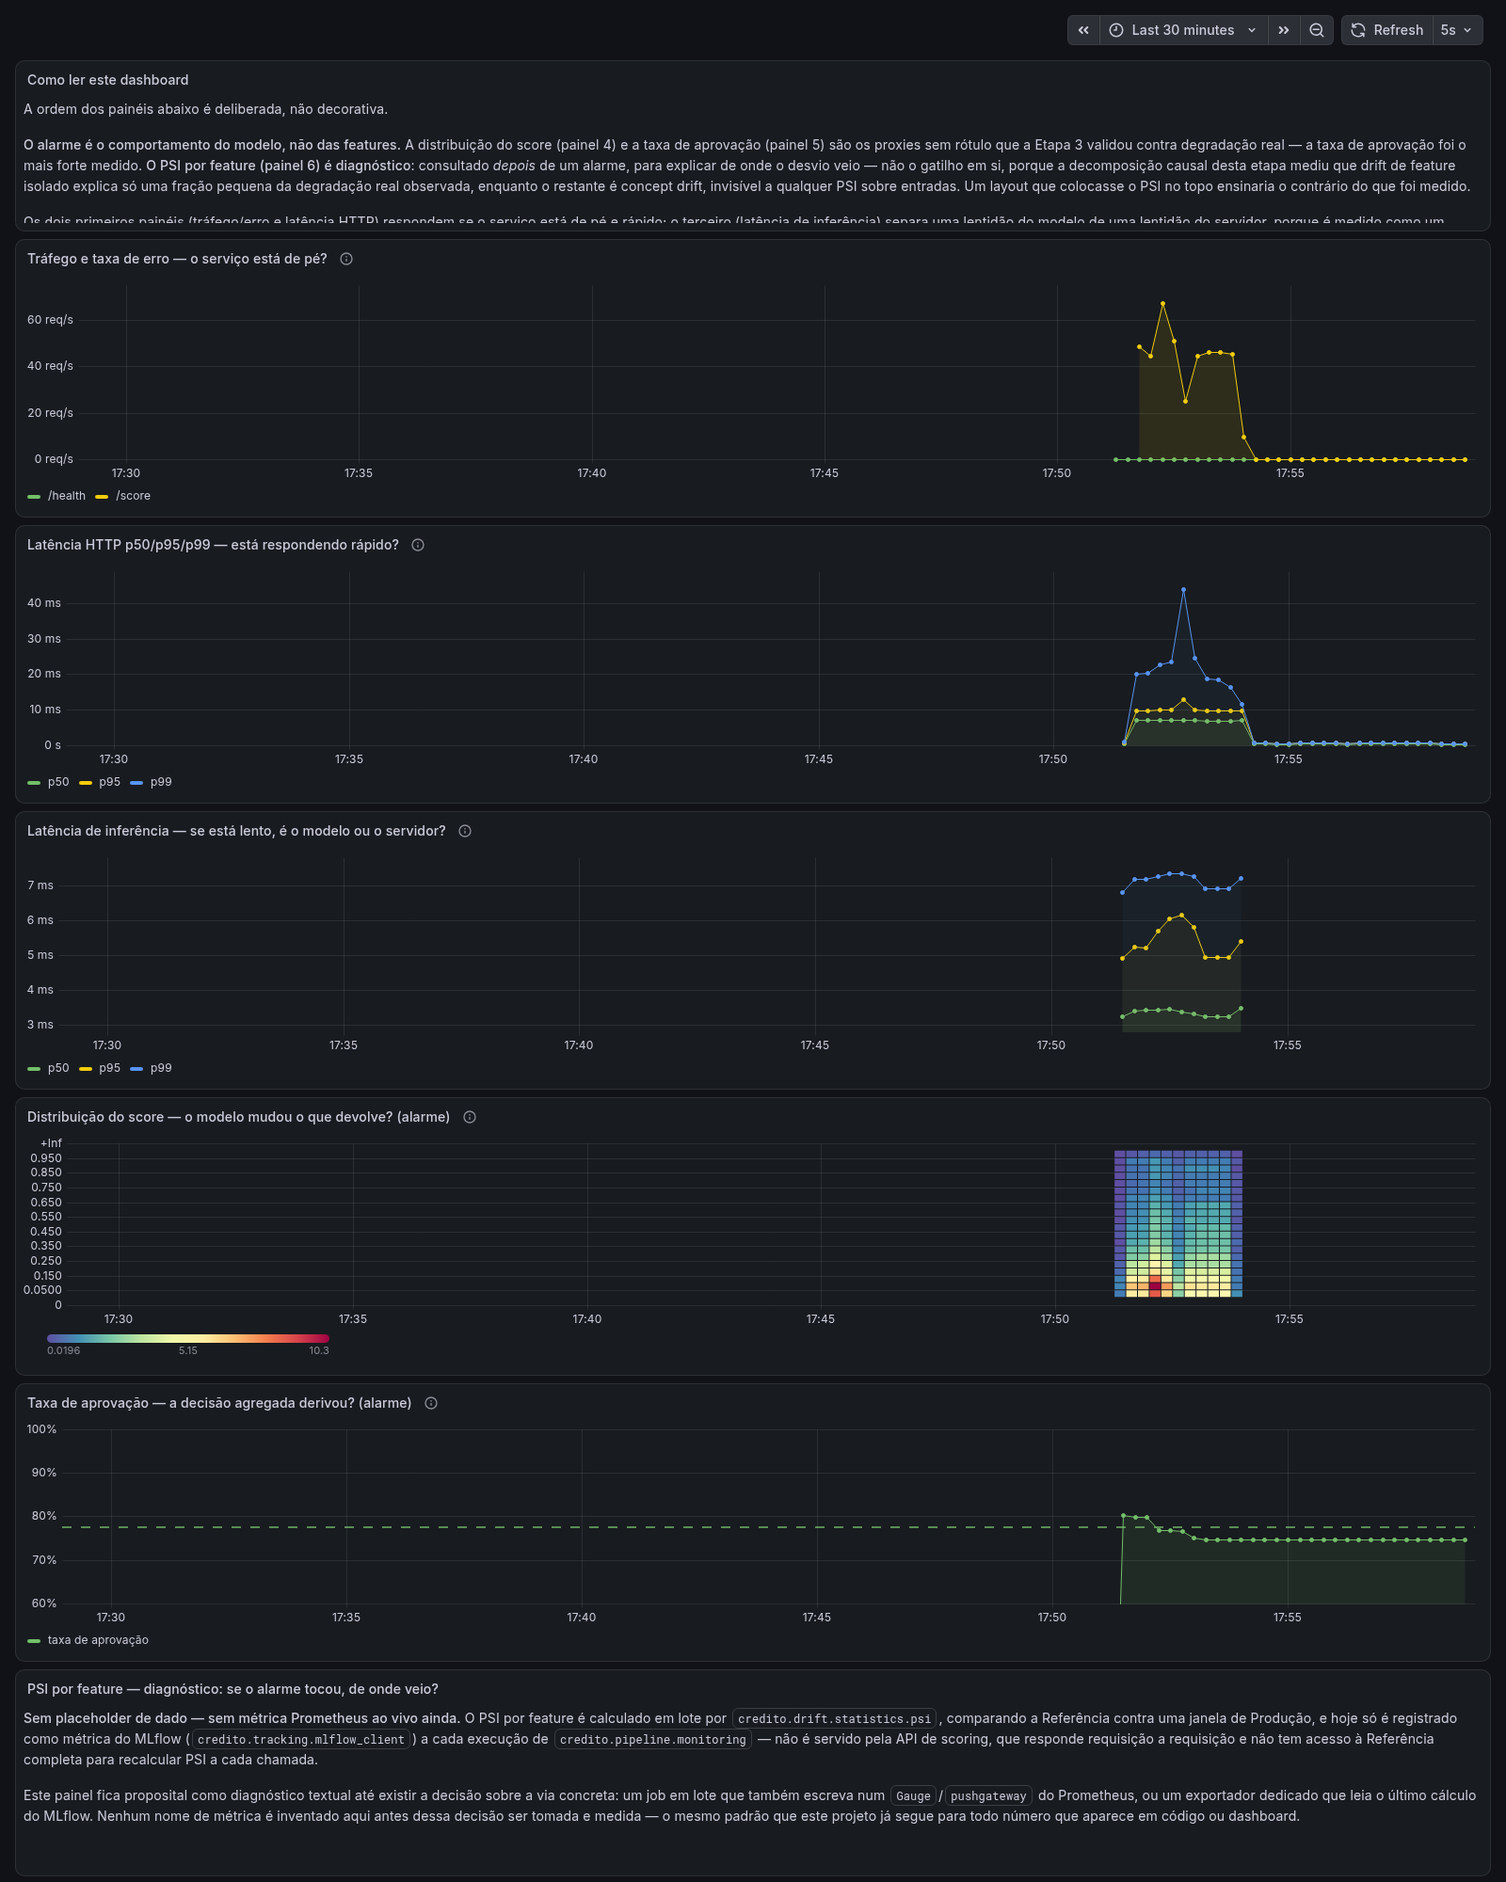
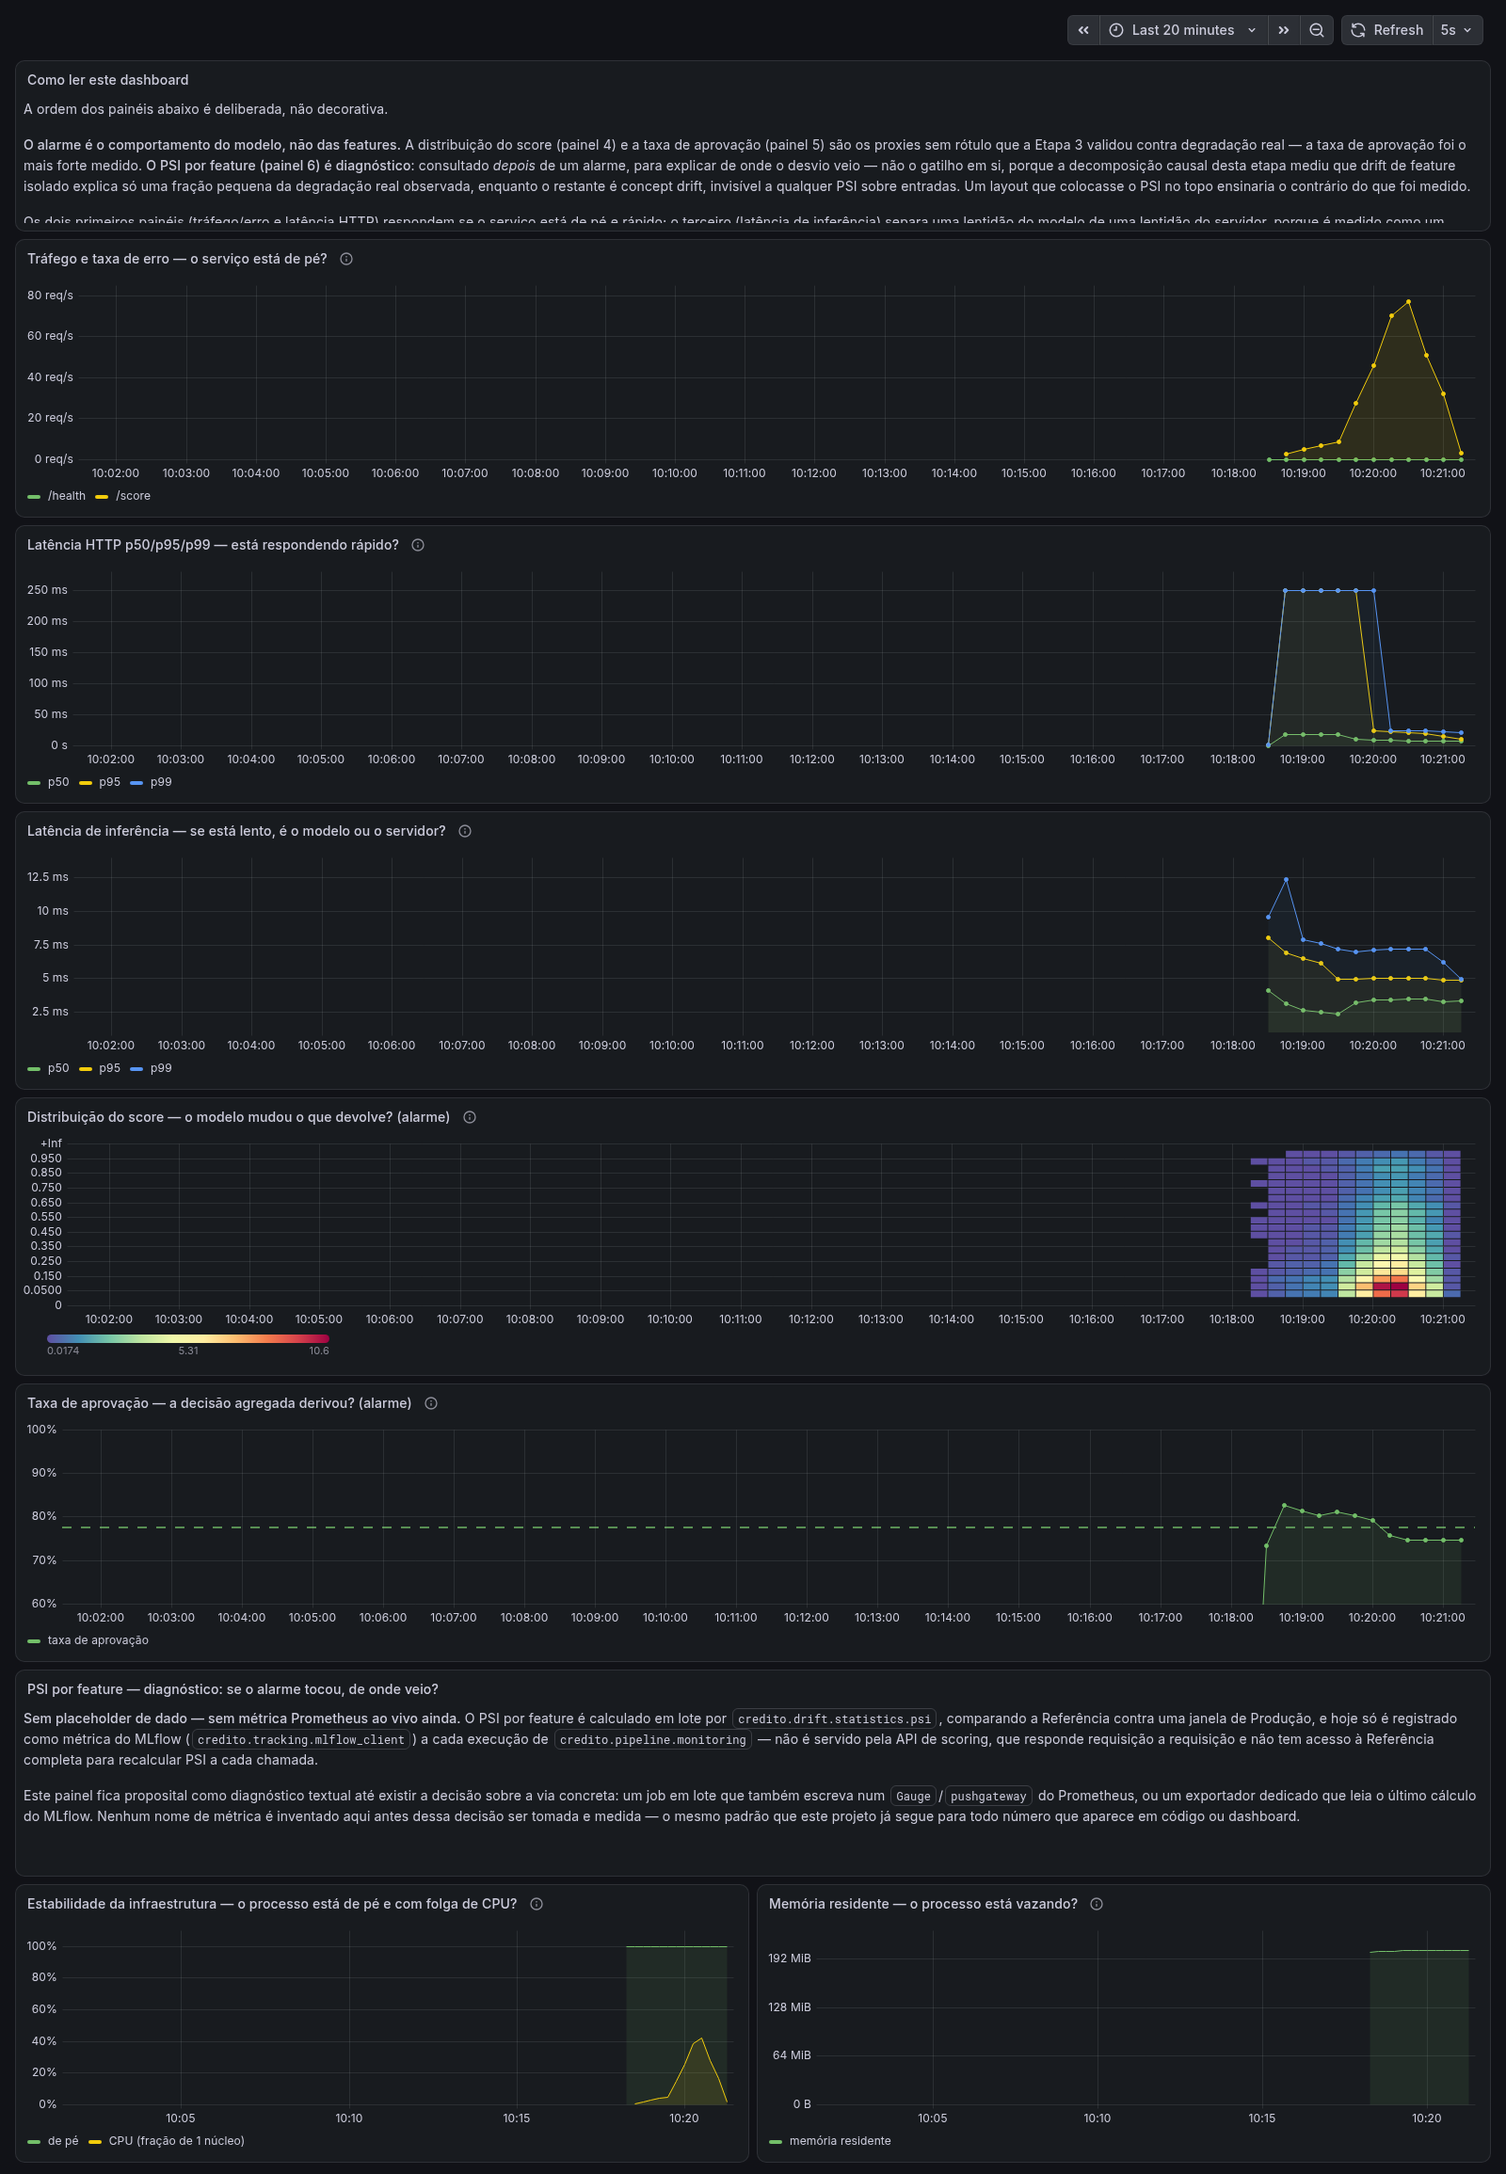
docs: logs de execução e infraestrutura documentados, prints recapturados, HTML do Evidently na release; 1.1.0
- README: a seção do MLflow passa a cobrir os dois pipelines e a falha;
  prints do treino (inclusive o FAILED) e do monitoramento; os painéis de
  infraestrutura; mapa de exigências atualizado.
- monitoring_plan: métricas de estabilidade da infraestrutura, a tabela
  das métricas de saúde do pipeline — status, causa, tarefa, volume
  processado e recusado, drift, alertas — e o cenário E do playbook.
- Prints do MLflow recapturados sem o painel lateral de assistente da
  ferramenta, que exibia o nome de um produto de IA; e-mail do usuário do
  sistema redigido nos detalhes de run.
- Os seis HTML do Evidently ficam fora do git (4,72 MB cada) e passam a
  ser anexos da release v1.1.0, com link no README.
- CHANGELOG 1.1.0 e versão 1.1.0.

diff --git a/README.md b/README.md
@@ -28,8 +28,8 @@
 | Critério (peso) | O que se pede | Onde está | Como verificar |
 |---|---|---|---|
 | **Validação de dados** (25%) | contrato com regras rígidas interceptando anomalias; lote com erro bloqueando a ingestão | [Contrato de dados](#contrato-de-dados) · `src/credito/contracts/` | `make demo-contrato` |
-| **Detecção de drift** (25%) | alterar a distribuição de ao menos duas variáveis; Referência contra Produção no Evidently; PSI/KS por feature | [Monitoramento de drift](#monitoramento-de-drift) · `reports/drift_mes_*.html` | `make monitor` |
-| **Observabilidade e logs** (20%) | métricas de saúde e alertas de drift visíveis; rastreamento; métricas documentadas | [Observabilidade em produção](#observabilidade-em-produção) · [`docs/monitoring_plan.md`](docs/monitoring_plan.md) · `docs/images/` | `make observabilidade-up && make traffic LOTE=mes_06` · `make calibrar-alarme` · `make mlflow-up` |
+| **Detecção de drift** (25%) | alterar a distribuição de ao menos duas variáveis; Referência contra Produção no Evidently; PSI/KS por feature | [Monitoramento de drift](#monitoramento-de-drift) · [relatório HTML do mês 6](https://github.com/flowramps/mlet-tech-challenge-fase4/releases/download/v1.1.0/drift_mes_06.html) | `make monitor` |
+| **Observabilidade e logs** (20%) | logs de execução do pipeline (sucesso e falha, por tarefa, com volume) e do drift centralizados; métricas de saúde, infraestrutura e alertas visíveis; métricas documentadas | [Observabilidade em produção](#observabilidade-em-produção) · [`docs/monitoring_plan.md`](docs/monitoring_plan.md) · `docs/images/` | `make observabilidade-up && make traffic LOTE=mes_06` · `make calibrar-alarme` · `make mlflow-up` |
 | **Governança — LGPD** (15%) | tratamento da PII, base legal da decisão de crédito, retenção, mitigação de vieses, causalidade | [Governança e proteção de dados](#governança-e-proteção-de-dados) · [`docs/governanca.md`](docs/governanca.md) · [`docs/model_card.md`](docs/model_card.md) | `make auditar-privacidade` · `make consultar-decisao ID=…` · `equidade` em `metrics/metrics.json` |
 | **Vídeo STAR** (15%) | a degradação demonstrada, em até 5 minutos | link nesta seção, quando publicado | — |
 | **Repositório** | pipeline de validação, scripts de simulação e detecção, relatórios, governança no README, commits semânticos | [Estrutura do projeto](#estrutura-do-projeto) · [`CHANGELOG.md`](CHANGELOG.md) | `make help` · `git log --oneline` |
@@ -893,7 +893,11 @@ biblioteca.
 
 ![Sumário de drift do Evidently no mês 6, coluna a coluna](docs/images/drift_evidently_mes_06.png)
 
-*Sumário de `reports/drift_mes_06.html`, gerado pela execução desta seção.*
+*Sumário de `reports/drift_mes_06.html`, gerado pela execução desta seção.* Os seis relatórios
+HTML completos — 4,72 MB cada, por isso fora do git — estão anexados à release `v1.1.0`:
+[mês 6](https://github.com/flowramps/mlet-tech-challenge-fase4/releases/download/v1.1.0/drift_mes_06.html), o de maior drift; os outros cinco, e o
+`monitoramento.json` consolidado, na [mesma release](https://github.com/flowramps/mlet-tech-challenge-fase4/releases/tag/v1.1.0).
+Nenhum deles embute linha individual — medido, ver `docs/governanca.md`.
 
 **E o print mostra uma divergência que vale mais do que o print.** O Evidently declara, no
 mês 6, **"Dataset Drift is NOT detected"** — 2 colunas de 10 em drift, uma fração de 0,2
@@ -1059,17 +1063,40 @@ real, toda requisição estourava o bucket `+Inf` — o histograma era inútil. 
 540 chamadas reais ao campeão: p50 3,515 ms · p95 9,665 ms · p99 13,442 ms. É a mesma
 lição de sempre neste projeto: suíte verde não prova que a coisa sobe.
 
-### Cada execução do monitoramento é um run do MLflow
+### Os logs de execução dos dois pipelines, no MLflow — inclusive quando falham
 
-`make monitor` registra cada execução — parâmetros (semente, janela, limiares), as
-métricas do campeão por lote, PSI por feature em série temporal (`step` = mês) e os três
-proxies sem rótulo, mais os artefatos (HTML do Evidently e o JSON consolidado). Backend
-SQLite local (`mlruns/mlflow.db`, ignorado pelo git) — o MLflow 3.x pôs o backend de
-arquivo em modo de manutenção.
+Cada `make train` e cada `make monitor` é um run do MLflow (experimentos `credito-treino` e
+`credito-monitoramento`; backend SQLite local, `mlruns/mlflow.db`, fora do git — o MLflow 3.x
+pôs o backend de arquivo em modo de manutenção). **O run é aberto no início do pipeline, não
+no fim**: uma falha no meio — um lote reprovado pelo contrato, um piso do gate violado —
+fecha o run `FAILED` com o tipo e a mensagem da falha, em vez de não deixar rastro. Antes,
+um lote reprovado abortava o monitoramento antes de qualquer registro.
 
-![Lista de execuções registradas no MLflow](docs/images/mlflow-runs.png)
+O que cada run guarda (`credito.tracking.execucao`):
 
-![Métricas e artefatos de uma execução, incluindo o PSI por feature em série temporal](docs/images/mlflow-run-detalhe.png)
+- **status de cada tarefa** — ingestão, contrato, treino, avaliação, gate; simulação,
+  predição e detecção de drift — como métrica 1/0, no passo do mês quando a tarefa roda por
+  lote: um lote reprovado deixa o contrato em 0 exatamente no mês dele;
+- **volume processado**: linhas brutas, linhas na Referência, **descarte por motivo** (a
+  transformação), partições, linhas de cada lote, linhas reprovadas pelo contrato;
+- **o desfecho**: `promovido`, `nao_promovido`, `concluido` ou `falha` — e "nada a
+  promover" termina `FINISHED`, não `FAILED`: é decisão, não defeito, a mesma separação do
+  gate de promoção;
+- no treino, as métricas de cada candidato na validação, as do campeão no teste, os
+  parâmetros e o `metrics.json`; no monitoramento, as métricas do campeão e o PSI por
+  feature em série temporal (`step` = mês), os três proxies sem rótulo e os artefatos
+  (HTML do Evidently e o JSON consolidado).
+
+Visto com o dado real: três treinos — promovido, não promovido e um com o piso de AUC-PR
+forçado a 0,99 — e o terceiro aparece `FAILED`, com a causa e o volume da execução:
+
+![Execuções de treino registradas no MLflow, uma com falha](docs/images/mlflow-treino.png)
+
+![O treino que falhou: causa nas tags, tarefa a tarefa e volume por motivo de descarte](docs/images/mlflow-treino-falha.png)
+
+![Execuções do monitoramento](docs/images/mlflow-runs.png)
+
+![Uma execução do monitoramento: tarefas, volume por lote e as métricas do campeão](docs/images/mlflow-run-detalhe.png)
 
 `make mlflow-up` sobe a UI contra o mesmo SQLite que `make monitor` grava.
 
@@ -1080,7 +1107,7 @@ que a raspa a cada 5 s e o Grafana com **datasource e dashboard provisionados po
 arquivo** — nada clicado à mão, os dois sobem já configurados a partir de
 `docker/grafana/provisioning/` e `docker/grafana/dashboards/`.
 
-![Dashboard do Grafana com os seis painéis populados por tráfego real](docs/images/grafana-dashboard.png)
+![Dashboard do Grafana com os oito painéis populados por tráfego real](docs/images/grafana-dashboard.png)
 
 **A ordem dos painéis é deliberada**, a mesma lição da seção anterior aplicada ao
 dashboard: tráfego e taxa de erro primeiro, depois latência, depois os dois alarmes
@@ -1092,6 +1119,11 @@ explicam só 3,1% da degradação real, enquanto o concept drift — invisível 
 
 O painel de PSI por feature é texto, não gráfico: a métrica só existe em lote (MLflow),
 nunca por requisição na API — decisão declarada no próprio painel, não escondida.
+
+Os dois últimos painéis são a **estabilidade da infraestrutura**: o processo da API está de
+pé (o Prometheus consegue raspá-lo), quanto de CPU consome e se a memória residente cresce
+sem parar. Sob as 5.000 decisões da demonstração, a CPU chegou a ~40% de um núcleo e a
+memória ficou estável em ~195 MiB.
 
 ### O alarme, calibrado e visto disparando
 

diff --git a/docs/monitoring_plan.md b/docs/monitoring_plan.md
@@ -197,6 +197,42 @@ e não de convenção de mercado, exceto onde isso é dito explicitamente.
 - **Quando consultar:** depois que o painel 5 (ou 4) já indicou que algo degradou — nunca
   antes. A ordem de leitura é deliberada.
 
+### 7 e 8. Estabilidade da infraestrutura — o processo está de pé, com folga?
+
+- **Métricas:** `up{job="credito-api"}` (o Prometheus consegue raspar a API),
+  `process_cpu_seconds_total` (CPU, em taxa: fração de um núcleo),
+  `process_resident_memory_bytes` (memória residente) e `process_start_time_seconds` (um
+  reinício aparece como salto). Vêm do coletor de processo do `prometheus-client`,
+  registrado no registro próprio da API.
+- **Medido na demonstração:** sob 5.000 decisões sequenciais, CPU com pico de ~40% de um
+  núcleo e memória estável em ~195 MiB.
+- **Alerta:** `up` em 0 é a API fora — a primeira coisa a olhar em qualquer cenário. Para
+  CPU e memória, sem carga real medida, não há limiar a declarar; o sinal é a forma da
+  curva: memória crescendo sem parar entre reinícios é vazamento.
+
+---
+
+## Logs de execução dos pipelines (MLflow)
+
+O painel acima é a saúde do serviço; a saúde dos **pipelines** de dados mora no MLflow,
+um run por execução de `make train` (experimento `credito-treino`) e de `make monitor`
+(`credito-monitoramento`), aberto no início — uma falha no meio deixa o run `FAILED` com a
+causa, em vez de nenhum rastro (`credito.tracking.execucao`).
+
+| Métrica de saúde do pipeline | Onde | Como ler |
+|---|---|---|
+| **Status da execução** | status do run (`FINISHED`/`FAILED`) e tag `desfecho` | `falha` é defeito; `nao_promovido` é decisão do gate e termina `FINISHED` |
+| **Causa da falha** | tags `falha.tipo` e `falha.mensagem` | `ContratoViolado` aponta o dado; `QualityGateError`, o modelo |
+| **Status de cada tarefa** | métricas `tarefa.<nome>` (1/0), no passo do mês quando por lote | a tarefa que parou é a primeira em 0 |
+| **Volume processado** | `volume.linhas_brutas`, `volume.linhas_referencia`, `volume.linhas_lote` (por mês) | queda brusca de volume é problema de ingestão antes de ser de modelo |
+| **Volume recusado** | `volume.descartes.<motivo>` (limpeza) e `volume.linhas_reprovadas` (contrato) | um motivo de descarte que cresce é o sistema de origem mudando |
+| **Resultado do drift** | `drift.psi.<feature>`, `campeao.*` e `proxy.*` por mês; tag `gate.veredito` | ver painéis 4 a 6 e a seção da causalidade no README |
+| **Alertas de falha ou drift** | Prometheus, série `ALERTS{alertstate="firing"}`, e a página `/alerts` | quantos e quais dos alertas de `alertas.yml` estão disparando agora |
+
+Visto com o dado real: um treino com o piso de AUC-PR forçado a 0,99 aparece `FAILED`, com
+`falha.tipo = QualityGateError`, `tarefa.gate = 0` e o volume da execução completo — ver
+`docs/images/mlflow-treino-falha.png`.
+
 ---
 
 ## Playbook por cenário
@@ -251,6 +287,18 @@ degradação (0,8% / 2,3% / 6,8%, respectivamente)?
    distribuição do score, a causa provável é concept drift — que nenhum PSI de feature
    captura.
 
+
+### E. Um run `FAILED` no MLflow
+
+**Primeira pergunta:** qual é o `falha.tipo`?
+
+1. `ContratoViolado` (ou `ReferenciaInvalida`, no monitoramento): o dado foi recusado na
+   porta. A métrica `tarefa.contrato` em 0 aponta o mês; `volume.linhas_reprovadas`, quantas
+   linhas. A causa está no sistema de origem — nada foi treinado nem monitorado sobre ele.
+2. `QualityGateError`: o candidato violou um piso absoluto. Nada foi publicado; o modelo em
+   produção continua o anterior. Comparar `teste.*` do run com os pisos nos parâmetros.
+3. Qualquer outro tipo é defeito de código: a mensagem está em `falha.mensagem`, e o
+   traceback completo no log da execução.
 ---
 
 ## O que não é monitorado, e por quê

diff --git a/CHANGELOG.md b/CHANGELOG.md
@@ -5,6 +5,31 @@ versão tem uma tag no commit de merge correspondente (`git checkout v0.2.0` dev
 repositório exatamente como a Etapa 2 o deixou). Os números citados abaixo são os medidos
 na própria etapa; os atuais estão no README.
 
+## [1.1.0] — os logs de execução do pipeline, centralizados
+
+A auditoria final contra o enunciado achou o critério de observabilidade parcial: ele pede
+os logs de execução do pipeline — sucesso e falha na ingestão e na transformação, status
+das tarefas, volume processado — e a estabilidade da infraestrutura. O MLflow só recebia o
+resultado de um monitoramento bem-sucedido; um lote reprovado abortava sem rastro, e o
+treino não ia para o MLflow.
+
+### Adicionado
+- `credito.tracking.execucao`: o run é aberto no início do pipeline. Status de cada tarefa
+  (1/0, no mês do lote), volume processado e recusado por motivo, desfecho declarado; uma
+  falha fecha o run `FAILED` com tipo e mensagem. "Nada a promover" termina `FINISHED`.
+- O treino passa a ser registrado no MLflow (`credito-treino`), com as métricas de cada
+  candidato e do campeão. Visto com o dado real: promovido, não promovido e um `FAILED` por
+  piso violado.
+- Métricas do processo da API (CPU, memória, reinício) e os painéis de estabilidade da
+  infraestrutura no Grafana.
+- O plano de monitoramento documenta cada métrica de saúde do pipeline e ganha o cenário
+  de um run `FAILED` no playbook.
+- Os relatórios HTML do Evidently anexados à release, com link no README.
+
+### Corrigido
+- Os prints do MLflow mostravam o painel lateral de assistente da ferramenta, com o nome de
+  um produto de IA no seletor de modelo; recapturados sem ele.
+
 ## [1.0.0] — as dívidas declaradas, fechadas
 
 As duas lacunas que a documentação das etapas declarava — e que impediam afirmar que o
@@ -126,6 +151,7 @@ contexto conseguir entendê-lo e reproduzi-lo.
 - Gate de promoção com pisos medidos e duas exceções distintas — falha contra "nada a fazer".
 - Recorte de métricas por faixa etária.
 
+[1.1.0]: https://github.com/flowramps/mlet-tech-challenge-fase4/compare/v1.0.0...v1.1.0
 [1.0.0]: https://github.com/flowramps/mlet-tech-challenge-fase4/compare/v0.5.0...v1.0.0
 [0.5.0]: https://github.com/flowramps/mlet-tech-challenge-fase4/compare/v0.4.0...v0.5.0
 [0.4.0]: https://github.com/flowramps/mlet-tech-challenge-fase4/compare/v0.3.0...v0.4.0

diff --git a/docs/model_card.md b/docs/model_card.md
@@ -3,7 +3,7 @@
 | | |
 |---|---|
 | **Identificador** | `credito` — baseline de risco de inadimplência |
-| **Versão** | 1.0.0 |
+| **Versão** | 1.1.0 |
 | **Tipo** | Classificador binário de probabilidade |
 | **Arquitetura publicada** | `XGBClassifier` (300 árvores, profundidade 5, `scale_pos_weight` pela razão de classes), encapsulado em `sklearn.pipeline.Pipeline` |
 | **Artefato** | `models/model.joblib` — modelo e metadados no mesmo pacote |
